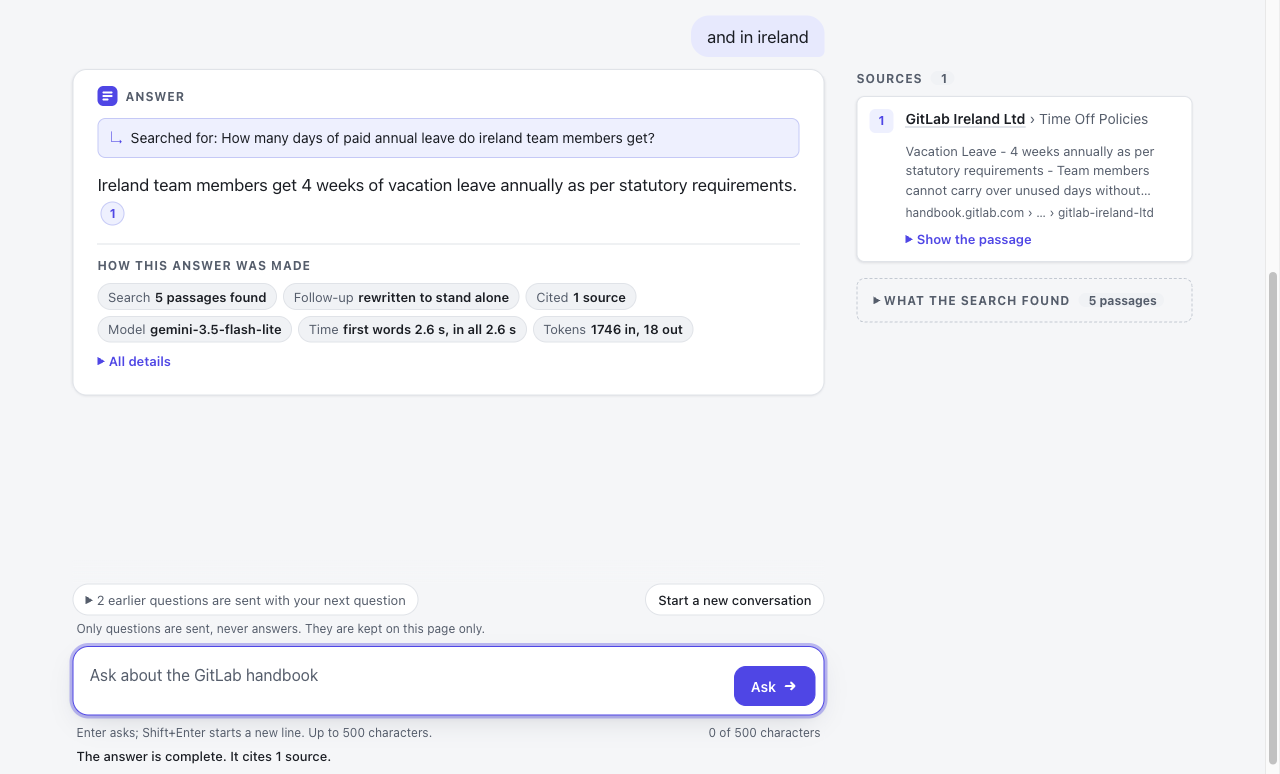
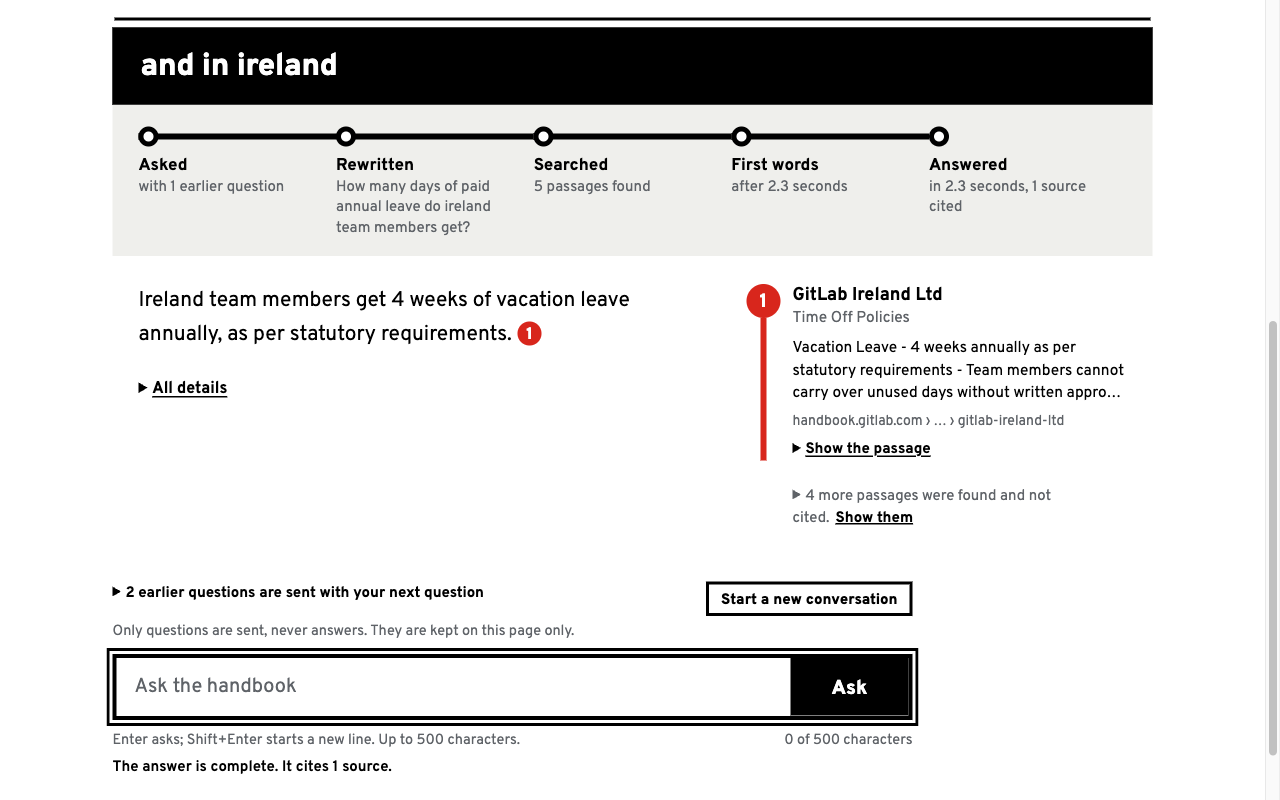
docs: the README's two pictures of the demo page in its new look, from the real service
Both pictures were taken on 27 November 2026 with the service running this
code: one question, answered in 1.9 seconds from five passages with one of
them cited, and the follow-up "and in ireland", rewritten into a question
that stands alone and answered from the Irish page. Three requests to the
model, none failed. Their alt texts and captions say what the pictures show.

The decision record now says that the look was tried with the real service
for these two questions, and with a stand-in service for every other state.

diff --git a/README.md b/README.md
@@ -102,15 +102,13 @@ The response, the streamed form and the errors are described under [HTTP API](#h
 
 While the service runs, <http://127.0.0.1:8000/> is a page that holds a conversation with the assistant, in the look of the signs of a transit system. Enter asks, and Shift+Enter starts a new line. Each question stands as a black sign, and under it how the answer was made runs as the stops of a line: asked, the rewrite of a follow-up, searched, first words, answered. While the model writes, the line shows how far the answer has come; at the end, the last stop says how long it took, how many sources its text cites, and anything that stands out, such as more than one request, the fallback model or a change by a check. Each source has a line colour by its number, and the citations in the answer are the numbered bullets of their lines. Beside the answer on a wide screen, and under it on a phone, the sources are a list of lines: the page's title and the headings above the passage, a piece of the passage, and the page's address in brief, with the whole address in the link's title and in the fold with the passage. Pointing at or focusing a number marks its source, and the other way round; pressing a number brings its source into view. The facts of the request and its trace id are a timetable under "All details". A reply that declines, "I could not find this in the handbook.", runs on dashed and grey after the search, to the sign for "no service" and "Not in the handbook.", and a failure ends its line where it ended and offers to ask again. When a check in code changed a reply or marked it ([ADR 0025](docs/adr/0025-hardening-against-planted-instructions.md)), its note stands in that turn as a yellow notice, a reply a check declined says so at the end of its line and in place of "Not in the handbook", and the status line reads each note out with the outcome. An answer that came from the cache runs on a line of its own, says so above its text, and names the question it was written for. Under the sources, folded away, are the passages the search found and the answer does not cite. Four questions from the test set are there to click, one of which the handbook does not answer. The header leads to this README's sections on how the system works and how it is measured.
 
-<!-- TO RETAKE: this picture, its alt text and the caption under it show the page's look before "Wayfinding", and are rewritten when the picture is retaken from the real service. -->
-![The demo page with a real answer from the service: the question as a bubble; the answer, "28 days of leave, which consists of 20 days of annual leave and 8 public holidays", with the number of its source after it and the badges that say how it was made; and beside it the card of the one source it cites, the handbook's page on GitLab's UK benefits](docs/images/demo-page.png)
+![The demo page with a real answer from the service: the question, "How many days of paid annual leave do UK team members get?", as a black sign; under it the line of stops, "Asked", "Searched" with 5 passages found, "First words" and "Answered" after 1.9 seconds with 1 source cited; the answer, "UK team members get 28 days total (20 days annual leave + 8 public holidays) as per the statutory requirements", with the red numbered bullet of its source after it; and beside it that source on its red line, the handbook's page on GitLab's UK benefits](docs/images/demo-page.png)
 
-A real answer on 25 November 2026, asked by typing the question and pressing Enter. The search found five passages and the answer cites one of them; the page shows the first words and the whole answer both after 1.8 s, counted from the request with the search included, for 1,741 tokens read and 32 written. That is one request on one day, not a measure of speed: the [answer evaluation](evals/runs/answers/baseline) has the measured times.
+A real answer on 27 November 2026, asked by typing the question and pressing Enter. The search found five passages and the answer cites one of them; the page shows the first words and the whole answer both after 1.9 s, counted from the request with the search included, for 2,606 tokens read and 29 written. That is one request on one day, not a measure of speed: the [answer evaluation](evals/runs/answers/hardened) has the measured times.
 
 Each answer's question, as it was searched for, is sent with the next question, so that "and in Finland?" can be rewritten into a question that stands alone; a fold above the question box lists what will be sent, and a line under it says that only questions are sent, never answers, and that they are kept on this page only. When a follow-up is rewritten, the question searched for stands at its own stop of the line, and when it could not be rewritten, that stop and a line above the answer say that it was searched for as typed. The conversation lives in the page's memory only, and "Start a new conversation" or a reload ends it ([ADR 0024](docs/adr/0024-follow-up-questions-in-the-service.md)).
 
-<!-- TO RETAKE: this picture, its alt text and the caption under it show the page's look before "Wayfinding", and are rewritten when the picture is retaken from the real service. -->
-![The follow-up "and in ireland" on the demo page: the line "Searched for: How many days of paid annual leave do ireland team members get?" at the top of the answer, the answer, "4 weeks of vacation leave annually", with the number of its source, the badge "Follow-up rewritten to stand alone", and beside it the card of its source, the handbook's page on GitLab Ireland Ltd](docs/images/demo-page-follow-up.png)
+![The follow-up "and in ireland" on the demo page: its line of stops has a stop of its own, "Rewritten", with the question as it was searched for, "How many days of paid annual leave do ireland team members get?", between "Asked" with 1 earlier question and "Searched"; the answer, "Ireland team members get 4 weeks of vacation leave annually, as per statutory requirements", with the numbered bullet of its source; and beside it that source on its line, the handbook's page on GitLab Ireland Ltd](docs/images/demo-page-follow-up.png)
 
 The follow-up asked next, on the same day: rewritten into a question that stands alone, then answered from the Irish page, with one request for each.
 

diff --git a/docs/adr/0016-a-demo-page-without-a-build-step.md b/docs/adr/0016-a-demo-page-without-a-build-step.md
@@ -72,7 +72,7 @@ The owner saw the page after the note of 25 November and wrote, on 26 November: 
   - the black sign against the dark page, 1.24:1: the sign is edged in `#f2f2ee`, 15.04:1 against the page, and a test holds that edge.
 - **After the review.** The review planted 31 faults; 20 got past every test, and each is now found. The address line's test did not reach the wrapper of a source's text, `.source-body`, nor the turn's columns, `.cols`, though this note first called it "as strict as before"; it now learns what stands around the line from the structure the script builds, as said above. The font test matched lower case only and did not read the `font` shorthand, though this note first said it failed on "any file or address but that one font"; it now reads the sheet as a browser does, and this note says what it checks. No test held colour for source, nor the style rules that carry meaning; both now have tests. The line's untested states (a stop before the first words, a failure between the search and the first text, an answer with no first text) and the fold's "About this search" have checks in the run. The words a reader got wrong were changed: " (now)" for the next stop, "Cut off" for a reply withheld for safety, "Every passage found is cited" when the search found nothing, a fold's control with no words when the page's own search failed, "the request failed" for an answer the page could not read, and two checks said as one. "What happens when you ask" was drawn in the wrong order, the search first. The mark of "no service" on the example question promised a decline that the reply under version 2 does not give.
 - **After the second review.** It found nothing that blocked the merge, and a class of holes in the style sheet's tests: each looked a rule up by its selector, so `p:not(.lede)` cut every address line, `.cite.line-3 { --c: var(--l1) }` drew citation 3 in source 1's colour, a token set inside a compound dark media query gave two sources one colour, and `.route .station-next::after` or `a:focus-visible { outline-color: transparent }` undid what the tests held. The list above closes the class; the address test also reads a compound without what stands in `:not()` and its kin. Four attempts of the maker's own got past the list's first form and were closed: a token changed in its place, a named colour, a font size in units of the window, and a font size through a token. The font test missed a quoted address holding a bracket and `-webkit-image-set()`; it now reads a quoted address by its quotes and counts a vendor's prefix. A reply held back with `refusal`, a reply that is not a stream, a failure before the search on a first question, a search still running and a source card that could not be built now each have a step or a check.
-- **What is not tested.** The look itself, by eye: in Chromium only, through an automated browser, on a stand-in service that served the page with this code and answered with replies of the API's shape (most of them real replies saved on 25 November 2026, some written for the pictures), at 1280 by 800 and 390 by 844 pixels, light and dark, in every state above, with the animation checked off under reduced motion. Not tried: another browser, a screen reader, a keyboard alone through a whole conversation, the real service, and a system whose fonts lack a script of a question.
+- **What is not tested.** The look itself, by eye: in Chromium only, through an automated browser, on a stand-in service that served the page with this code and answered with replies of the API's shape (most of them real replies saved on 25 November 2026, some written for the pictures), at 1280 by 800 and 390 by 844 pixels, light and dark, in every state above, with the animation checked off under reduced motion. With the real service it was tried once, on 27 November 2026, in the same browser: one question and one follow-up, which are the README's two pictures. Not tried: another browser, a screen reader, a keyboard alone through a whole conversation, the other states with the real service, and a system whose fonts lack a script of a question.
 
 ## Alternatives considered
 
